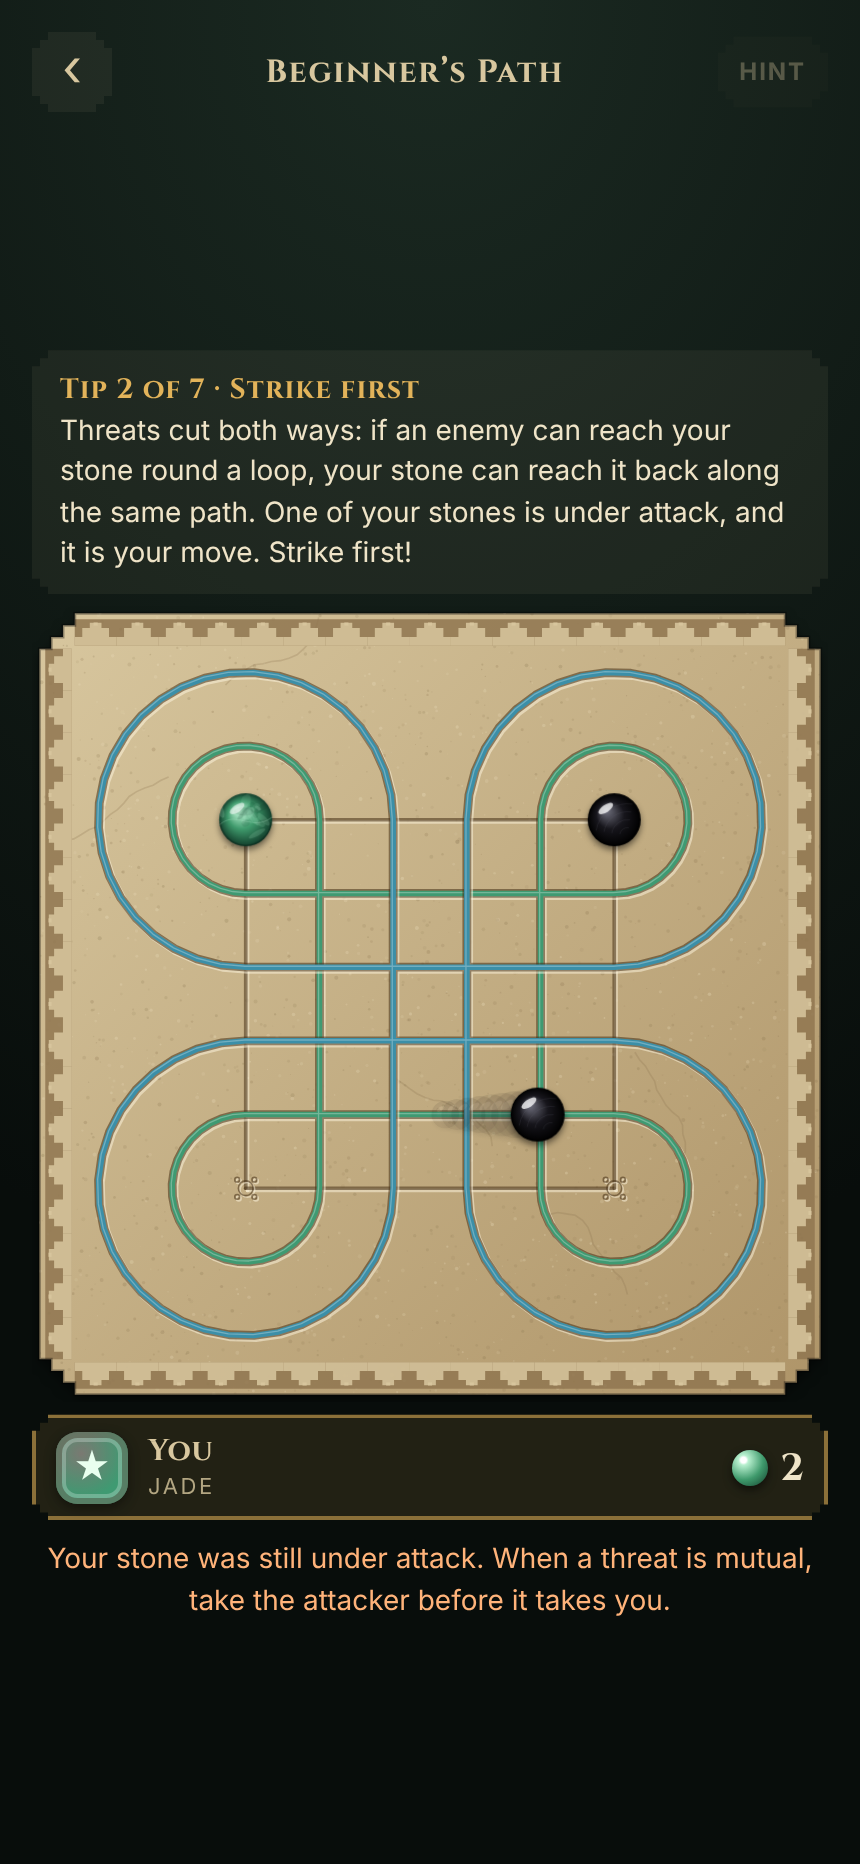
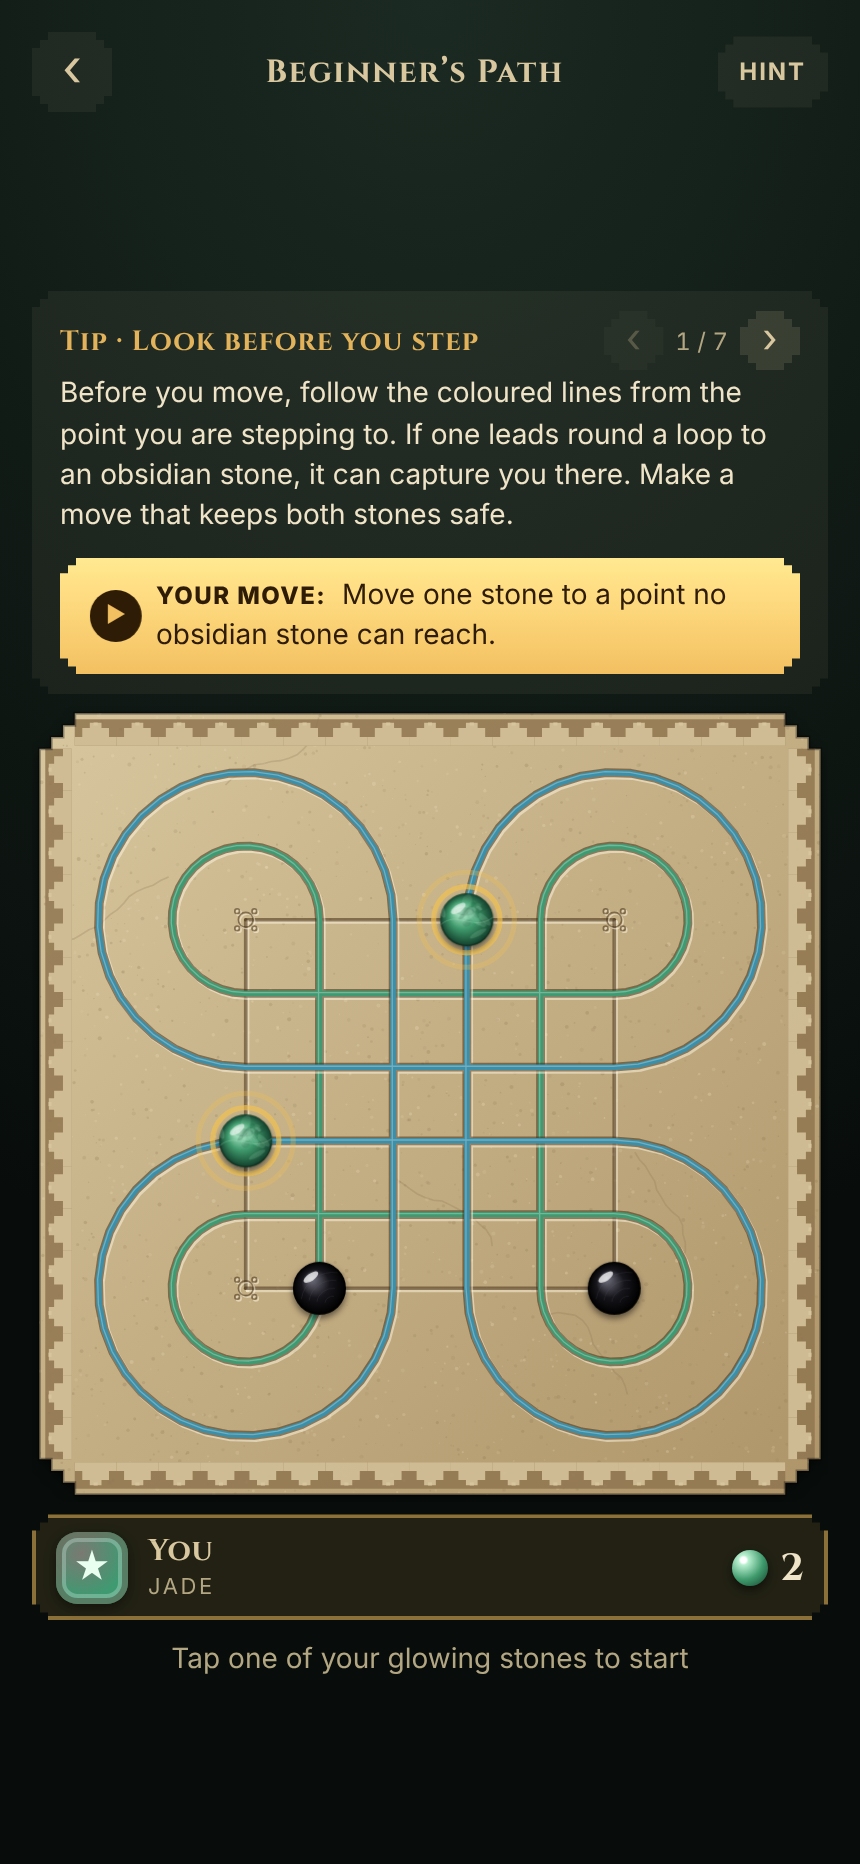
Make puzzle tasks unmissable and the music livelier
Lessons and Beginner's Path puzzles show a gold 'Your move' task bar, pulse the
player's stones until one is picked and guide each tap in the status line. The
music moves to 100 bpm in a 16-bar cycle: bass drum, slit-drum riff over a chord
progression, clave woodblock, double-time shaker, harmonised flute, a breakdown
run and a drum fill.

Claude-Session: https://claude.ai/code/session_014apiipgd6oVcDUXizLYRPz

diff --git a/GAME/audio.js b/GAME/audio.js
@@ -173,16 +173,24 @@ export const sfx = {
 
 // ---------------------------------------------------------------- generative music
 
-const BEAT = 60 / 76 / 2; // eighth notes at 76 bpm
-const DRUM = [[110, 0.22], 0, 0, [146.83, 0.14], 0, 0, [110, 0.16], [164.81, 0.1]]; // 3-3-2 pattern
+const BEAT = 60 / 100 / 2; // eighth notes at 100 bpm
+// A 16-bar cycle: groove builds (0-3), full band (4-11), breakdown with a flute run (12-13),
+// drum fill back to the top (14-15).
+const ROOTS = [110, 110, 98, 98, 130.81, 130.81, 146.83, 123.47]; // slit-drum riff root per bar (pentatonic)
+const BASS = [1, 0, 0, 1, 0, 0, 1, 0];                              // 3-3-2 on the deep drum
+const CLAVE = new Set([0, 3, 6, 10, 12]);                           // over two bars of eighths
 let nextAt = 0, step = 0, phrase = [];
+
+// Deep skin drum: a low thump with a fast pitch drop.
+const bassDrum = (bus, t, vol = 0.5) => { osc(bus, t, 92, 0.28, { vol, drop: 0.45 }); noise(bus, t, 0.02, { vol: vol * 0.3, freq: 300, q: 1 }); };
+const woodblock = (bus, t, vol = 0.12) => { osc(bus, t, 1650, 0.05, { vol, type: 'triangle' }); noise(bus, t, 0.015, { vol: vol * 0.6, freq: 3200, q: 8 }); };
 
 function startMusic() {
   if (!ctx || musicTimer) return;
   musicBus.gain.cancelScheduledValues(now());
-  musicBus.gain.setTargetAtTime(0.55, now(), 1.5);
-  nextAt = now() + 0.2; step = 0;
-  musicTimer = setInterval(schedule, 120);
+  musicBus.gain.setTargetAtTime(0.5, now(), 1);
+  nextAt = now() + 0.2; step = 0; phrase = [];
+  musicTimer = setInterval(schedule, 100);
 }
 
 function stopMusic() {
@@ -192,33 +200,62 @@ function stopMusic() {
 }
 
 function schedule() {
-  while (nextAt < now() + 0.5) {
-    const beat = step % 8, bar = (step / 8) | 0;
-    const d = DRUM[beat];
-    if (d && (bar % 8 < 6 || beat === 0)) slitDrum(musicBus, nextAt, d[0], d[1]);
-    if (beat % 2 === 1 && bar % 4 !== 3) rattle(musicBus, nextAt, 0.025);
-    if (beat === 0 && bar % 4 === 0 && !phrase.length && Math.random() < 0.8) phrase = makePhrase();
-    if (phrase.length) {
-      const n = phrase.shift();
-      if (n) ocarina(musicBus, nextAt, n[0], n[1] * BEAT, 0.07);
+  while (nextAt < now() + 0.4) {
+    const beat = step % 8, bar = ((step / 8) | 0) % 16, t = nextAt;
+    const full = bar >= 4 && bar < 12, breakdown = bar === 12 || bar === 13, fill = bar >= 14;
+    const root = ROOTS[bar % 8];
+
+    if (BASS[beat] && !breakdown) bassDrum(musicBus, t, beat === 0 ? 0.5 : 0.35);
+    if (full && beat === 4 && Math.random() < 0.5) bassDrum(musicBus, t, 0.2);
+
+    // slit-drum riff: root and fifth, busier in the full section
+    if (!fill) {
+      if (beat === 0 || beat === 3) slitDrum(musicBus, t, root, 0.2);
+      if (beat === 6) slitDrum(musicBus, t, root * 1.5, 0.14);
+      if (full && (beat === 2 || beat === 7)) slitDrum(musicBus, t, root * 2, 0.08);
+    } else {
+      // fill: a run of sixteenths down the scale
+      const k = (bar - 14) * 8 + beat;
+      if (bar === 15 || beat % 2 === 0) {
+        slitDrum(musicBus, t, SCALE[Math.max(0, 8 - (k >> 1))] / 2, 0.16);
+        if (bar === 15) slitDrum(musicBus, t + BEAT / 2, SCALE[Math.max(0, 7 - (k >> 1))] / 2, 0.12);
+      }
     }
-    if (beat === 4 && Math.random() < 0.12) bird(musicBus, nextAt);
-    if (beat === 0 && bar % 16 === 15) rainStick(musicBus, nextAt, 2.5, 0.02);
+
+    if (bar >= 2 && !fill && CLAVE.has((bar % 2) * 8 + beat)) woodblock(musicBus, t);
+
+    // shaker: eighths, doubled to sixteenths when the full band plays
+    rattle(musicBus, t, beat % 2 ? 0.035 : 0.018);
+    if (full) rattle(musicBus, t + BEAT / 2, 0.014);
+
+    // melody with a second flute a third below on longer notes
+    if ((full || breakdown) && !phrase.length && (beat === 0 || beat === 4)) phrase = makePhrase(breakdown);
+    if (phrase.length && !fill) {
+      const n = phrase.shift();
+      if (n) {
+        ocarina(musicBus, t, n[0], n[1] * BEAT, 0.075);
+        if (full && n[1] >= 2 && Math.random() < 0.6) ocarina(musicBus, t, n[0] * 0.8409, n[1] * BEAT, 0.04);
+      }
+    } else if (fill) phrase = [];
+    if (bar === 13 && beat === 4) for (let i = 0; i < 6; i++) ocarina(musicBus, t + i * BEAT / 2, SCALE[4 + i], BEAT * 0.6, 0.06);
+
+    if (beat === 5 && Math.random() < 0.1) bird(musicBus, t);
+    if (bar === 15 && beat === 0) rainStick(musicBus, t, 2.2, 0.025);
     nextAt += BEAT; step++;
   }
 }
 
 // A short wandering melody on the pentatonic scale, as a list of eighth-note slots.
-function makePhrase() {
+function makePhrase(sparse) {
   const out = [];
-  let i = 3 + (Math.random() * 4 | 0);
-  const notes = 4 + (Math.random() * 4 | 0);
+  let i = 4 + (Math.random() * 4 | 0);
+  const notes = sparse ? 3 : 5 + (Math.random() * 4 | 0);
   for (let k = 0; k < notes; k++) {
     i = Math.max(0, Math.min(SCALE.length - 1, i + [-2, -1, -1, 1, 1, 2, 0][Math.random() * 7 | 0]));
-    const len = k === notes - 1 ? 6 : [1, 2, 2, 3, 4][Math.random() * 5 | 0];
-    out.push([SCALE[i] * (Math.random() < 0.15 ? 0.5 : 1), len]);
+    const len = k === notes - 1 ? 4 : [1, 1, 2, 2, 3][Math.random() * 5 | 0];
+    out.push([SCALE[i], len]);
     for (let r = 1; r < len; r++) out.push(0);
   }
-  for (let r = 0; r < 16; r++) out.push(0);
+  for (let r = 0; r < (sparse ? 6 : 2); r++) out.push(0);
   return out;
 }

diff --git a/GAME/content.js b/GAME/content.js
@@ -80,16 +80,16 @@ export const OPPONENTS = [
 
 // goal: 'step' (any non-capture), 'capture' (any capture), 'win' (beat the Beginner level)
 export const LESSONS = [
-  { title: 'Moving', goal: 'step',
+  { title: 'Moving', task: 'Move your stone one step.', goal: 'step',
     text: 'Stones move one point in any direction, diagonals included, onto an empty point. Tap your stone, then a glowing dot.',
     layout: ['......', '......', '......', '..x...', '......', '......'] },
-  { title: 'Riding the loops', goal: 'capture',
+  { title: 'Riding the loops', task: 'Capture the obsidian stone.', goal: 'capture',
     text: 'To capture, slide along a coloured line, around at least one loop, and land on an enemy stone. The path must be clear. Capture the obsidian stone!',
     layout: ['......', '...o..', '......', '......', '......', '.x....'] },
-  { title: 'No shortcuts', goal: 'capture',
+  { title: 'No shortcuts', task: 'Capture the obsidian stone.', goal: 'capture',
     text: 'A straight shot does not count: the path must go through a loop. Paths can be long. Find the way round.',
     layout: ['......', '......', 'x...o.', '......', '......', '......'] },
-  { title: 'Your first game', goal: 'win',
+  { title: 'Your first game', task: 'Win the game: capture every obsidian stone.', goal: 'win',
     text: 'Capture every enemy stone to win. If 50 moves pass with no capture, whoever has more stones wins. Corners are safe: no line runs through them.',
     layout: ['......', '.o..o.', '......', '......', '.x..x.', '..x...'] },
 ];
@@ -97,31 +97,31 @@ export const LESSONS = [
 // Beginner's Path: one strategy tip each, with a puzzle to solve. goal is checked by coach.meetsGoal.
 // miss: what to say when the move falls short. quiet presets the no-capture count.
 export const DRILLS = [
-  { title: 'Look before you step', goal: 'safe',
+  { title: 'Look before you step', task: 'Move one stone to a point no obsidian stone can reach.', goal: 'safe',
     text: 'Before you move, follow the coloured lines from the point you are stepping to. If one leads round a loop to an obsidian stone, it can capture you there. Make a move that keeps both stones safe.',
     miss: 'That point is on a line an obsidian stone can reach.',
     layout: ['...x..', '......', '......', 'x.....', '......', '.o...o'] },
-  { title: 'Strike first', goal: 'freeCapture',
+  { title: 'Strike first', task: 'Capture the stone that threatens you.', goal: 'freeCapture',
     text: 'Threats cut both ways: if an enemy can reach your stone round a loop, your stone can reach it back along the same path. One of your stones is under attack, and it is your move. Strike first!',
     miss: 'Your stone was still under attack. When a threat is mutual, take the attacker before it takes you.',
     layout: ['.x...o', '......', '......', '......', '....x.', '.o....'] },
-  { title: 'Free stones', goal: 'freeCapture',
+  { title: 'Free stones', task: 'Make the capture that cannot be taken back.', goal: 'freeCapture',
     text: 'Two captures are possible here, but only one is free. After the other, an obsidian stone can take yours straight back. Find the capture that loses nothing.',
     miss: 'After that move, one of your stones could be captured back.' ,
     layout: ['......', '.x..x.', '......', '....o.', '......', '.o..o.'] },
-  { title: 'Poisoned stones', goal: 'safe',
+  { title: 'Poisoned stones', task: 'Make a safe move without capturing.', goal: 'safe',
     text: 'Not every capture is a good idea. The only capture here walks into a trap. Make a quiet move that keeps every stone safe instead.',
     miss: 'Your stone could be captured right back.',
     layout: ['......', '.x...o', '......', '......', 'x.o...', '......'] },
-  { title: 'Double attack', goal: 'fork',
+  { title: 'Double attack', task: 'Step a stone so it attacks two obsidian stones at once.', goal: 'fork',
     text: 'Most points sit on two lines, so a stone can aim two ways at once. Find the safe step that attacks two obsidian stones together: they can only save one.',
     miss: 'Look for a step that threatens two stones at once and stays safe.',
     layout: ['...o.x', '......', '......', 'o.....', '....x.', '......'] },
-  { title: 'Corners are safe', goal: 'safe',
+  { title: 'Corners are safe', task: 'Find the one move that leaves no stone exposed.', goal: 'safe',
     text: 'No line runs through the four corners, so a stone there can never be captured. Every move here leaves a stone exposed, except one.',
     miss: 'That leaves a stone where an obsidian stone can reach it. Which point is out of reach of every line?',
     layout: ['o.....', '......', '......', '..o...', '....xx', '....x.'] },
-  { title: 'Play the clock', goal: 'safe', quiet: 44,
+  { title: 'Play the clock', task: 'Make a move that keeps every stone safe.', goal: 'safe', quiet: 44,
     text: 'You lead 3 to 2, and 44 moves have passed without a capture. At 50, the side with more stones wins. When you are ahead, play safe and let the count run out.',
     miss: 'Never give stones away when you are ahead and the count is running out.',
     layout: ['x..x..', '....o.', '......', '.....x', '....o.', '......'] },

diff --git a/GAME/ui.js b/GAME/ui.js
@@ -449,7 +449,7 @@ function draw(now) {
   // capture paths and move targets for the selection
   if (G.selected !== null && !anim) {
     const caps = G.moves.filter(m => m.capture), steps = G.moves.filter(m => !m.capture);
-    if (data.settings.hints || G.mode === 'lesson') {
+    if (data.settings.hints || G.lesson !== null || G.drill !== null) {
       ctx.save();
       ctx.strokeStyle = t.danger; ctx.lineWidth = s * 0.2; ctx.globalAlpha = 0.22;
       caps.forEach(m => strokePts(pathPoints(m.path)));
@@ -469,6 +469,19 @@ function draw(now) {
     const [x, y] = xy(G.selected);
     ctx.strokeStyle = t.mark; ctx.lineWidth = s * 0.06;
     ctx.beginPath(); ctx.arc(x, y, s * 0.44, 0, 7); ctx.stroke();
+  }
+
+  // in lessons and puzzles, invite the first tap: your stones pulse until one is picked
+  if ((G.lesson !== null || G.drill !== null) && G.selected === null && !anim && !G.busy && !G.over && humanTurn()) {
+    ctx.strokeStyle = '#f2c14e'; ctx.lineWidth = s * 0.07;
+    for (let sq = 0; sq < 36; sq++) if (board[sq] === G.state.turn) {
+      const [x, y] = xy(sq), k = (now / 900) % 1;
+      ctx.globalAlpha = 0.55 + 0.45 * pulse;
+      ctx.beginPath(); ctx.arc(x, y, s * 0.45, 0, 7); ctx.stroke();
+      ctx.globalAlpha = 0.8 * (1 - k);
+      ctx.beginPath(); ctx.arc(x, y, s * (0.45 + 0.3 * k), 0, 7); ctx.stroke();
+    }
+    ctx.globalAlpha = 1;
   }
 
   // threatened own stones
@@ -633,8 +646,9 @@ function refresh() {
   $('#lesson').hidden = !lesson && !drill;
   const stepNav = (kind, i, n) => `<span class="step-nav"><button class="step" data-step="${kind}:${i - 1}" ${i === 0 ? 'disabled' : ''} aria-label="Previous">‹</button>
     <span>${i + 1} / ${n}</span><button class="step" data-step="${kind}:${i + 1}" ${i + 1 === n ? 'disabled' : ''} aria-label="Next">›</button></span>`;
-  if (lesson) $('#lesson').innerHTML = `<div class="lesson-head"><b>Lesson · ${lesson.title}</b>${stepNav('lesson', G.lesson, LESSONS.length)}</div>${lesson.text}`;
-  if (drill) $('#lesson').innerHTML = `<div class="lesson-head"><b>Tip · ${drill.title}</b>${stepNav('drill', G.drill, DRILLS.length)}</div>${drill.text}`;
+  const taskBar = task => G.over ? '' : `<div class="task"><span class="task-icon" aria-hidden="true">▶</span><span><b>Your move:</b> ${task}</span></div>`;
+  if (lesson) $('#lesson').innerHTML = `<div class="lesson-head"><b>Lesson · ${lesson.title}</b>${stepNav('lesson', G.lesson, LESSONS.length)}</div>${lesson.text}${taskBar(lesson.task)}`;
+  if (drill) $('#lesson').innerHTML = `<div class="lesson-head"><b>Tip · ${drill.title}</b>${stepNav('drill', G.drill, DRILLS.length)}</div>${drill.text}${taskBar(drill.task)}`;
   const coachOn = data.settings.coach && G.mode === 'ai' && !lesson && !drill;
   const tip = coachOn && humanTurn() && !G.over && !G.busy ? coachTip(G.state, G.human, G.lostLast) : null;
   $('#coach').hidden = !coachOn;
@@ -653,7 +667,8 @@ function refresh() {
   if (G.over) status.textContent = '';
   else if (G.state.quiet >= QUIET_LIMIT - 14) status.textContent = `${QUIET_LIMIT - G.state.quiet} moves left to capture — then more stones wins`;
   else if (G.mode === 'pass') status.textContent = `${sideName(G.state.turn)} to move`;
-  else status.textContent = humanTurn() ? (G.state.ply < 2 && !lesson && !drill ? 'Your move — tap a stone' : 'Your move') : `${opponentInfo().name} is thinking…`;
+  else if ((lesson || drill) && humanTurn() && !G.busy) status.textContent = G.selected === null ? 'Tap one of your glowing stones to start' : 'Now tap a glowing point to move there';
+  else status.textContent = humanTurn() ? (G.state.ply < 2 && !lesson ? 'Your move — tap a stone' : 'Your move') : `${opponentInfo().name} is thinking…`;
 }
 
 function onTap(sq) {
@@ -661,16 +676,16 @@ function onTap(sq) {
   if (!G || G.busy || G.over || G.thinking || !humanTurn() || sq < 0) return;
   const b = G.state.board;
   if (b[sq] === G.state.turn) {
-    if (G.selected === sq) { G.selected = null; G.moves = []; return; }
+    if (G.selected === sq) { G.selected = null; G.moves = []; return refresh(); }
     G.selected = sq;
     G.moves = movesFrom(b, sq, G.state.turn, true);
     sfx.select();
-    return;
+    return refresh();
   }
   const mv = G.moves.find(m => m.to === sq);
   if (mv) return play(mv);
   if (G.selected !== null && b[sq]) sfx.nope();
-  G.selected = null; G.moves = [];
+  if (G.selected !== null) { G.selected = null; G.moves = []; refresh(); }
 }
 
 // Animates a move and applies it. Returns false if the game was left meanwhile.

diff --git a/GAME/style.css b/GAME/style.css
@@ -256,3 +256,12 @@ h3 { font: 700 12px var(--sans); text-transform: uppercase; letter-spacing: .16e
 .toast .swatch { flex: none; width: 56px; height: 40px; margin: 0; }
 .toast.show { animation: drop .4s ease-out; }
 @keyframes drop { from { opacity: 0; transform: translate(-50%, -20px); } }
+
+/* the action a lesson or puzzle asks for */
+.task { display: flex; align-items: center; gap: 10px; margin-top: 10px; padding: 9px 12px; clip-path: var(--steps);
+  background: linear-gradient(180deg, #f3d987, var(--gold)); color: #2b1a06; font-size: 14px; animation: beckon 2s ease-in-out infinite; }
+.task b { font-weight: 800; text-transform: uppercase; letter-spacing: .06em; font-size: 12px; margin-right: 4px; }
+.task-icon { flex: none; width: 26px; height: 26px; display: grid; place-items: center; border-radius: 50%; background: #2b1a06; color: var(--gold); font-size: 11px; animation: nudge 1s ease-in-out infinite; }
+@keyframes beckon { 50% { filter: brightness(1.12); } }
+@keyframes nudge { 50% { transform: translateX(3px); } }
+.lesson .task b { display: inline; margin: 0 4px 0 0; color: #2b1a06; font: 800 12px var(--sans); letter-spacing: .06em; }

diff --git a/GAME/sw.js b/GAME/sw.js
@@ -1,5 +1,5 @@
 // Offline cache. Bump VERSION whenever a file below changes.
-const VERSION = 'loopstone-5';
+const VERSION = 'loopstone-6';
 const FILES = ['./', 'index.html', 'style.css', 'ui.js', 'core.js', 'ai.js', 'ai-worker.js', 'audio.js',
   'content.js', 'coach.js', 'portraits.js', 'achievements.js', 'config.js', 'icon.svg', 'icon-512.png', 'manifest.webmanifest'];
 

diff --git a/GAME/CLAUDE.md b/GAME/CLAUDE.md
@@ -25,7 +25,7 @@ Content (opponents, lessons, themes and what the demo includes) is data in `cont
 - `content.js` — Temple Ascent opponents (with `look` and spoken `lines`), `ACHIEVEMENTS`, `STONES` sets, tutorial lessons, Beginner's Path puzzles (`DRILLS`), boards
   (`THEMES`), demo limits. Each achievement unlocks exactly one board or stone set (`unlock` field). New puzzles must pass `tests/coach.test.js` (a solution and a wrong answer).
 - `audio.js` — synthesised instruments (ocarina, slit drum, rattle, rain stick, conch), sound effects
-  and the generative background music (drum, rattle, flute, birds; no continuous drone).
+  and the generative background music: a 16-bar cycle at 100 bpm (groove, full band with harmony, breakdown, drum fill); no continuous drone.
 - `config.js` — `FULL_VERSION` and `STORE_URL`, the only build-time switches.
 - `build.mjs` — `node build.mjs [store-url]` writes `dist/web` (demo) and `dist/full` (paid), with the
   font inlined into `style.css`.
